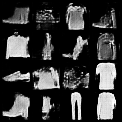
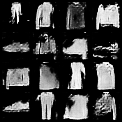
version2

diff --git a/train.py b/train.py
@@ -17,7 +17,7 @@ def main():
 
     latent_dim = 100
     batch_size = 128
-    epochs = 20
+    epochs = 30
     lr = 0.0002
 
     transform = transforms.Compose([
@@ -41,7 +41,8 @@ def main():
 
     generator = Generator(latent_dim=latent_dim).to(device)
     discriminator = Discriminator().to(device)
-
+    generator.apply(weights_init)
+    discriminator.apply(weights_init)
     criterion = nn.BCELoss()
 
     optimizer_g = optim.Adam(generator.parameters(), lr=lr, betas=(0.5, 0.999))
@@ -92,8 +93,19 @@ def main():
             fake_samples = generator(fixed_noise)
             save_generated_images(fake_samples, epoch + 1)
 
+    os.makedirs("checkpoints", exist_ok=True)
+    torch.save(generator.state_dict(), "checkpoints/generator.pth")
+    torch.save(discriminator.state_dict(), "checkpoints/discriminator.pth")
     print("Training finished.")
 
+def weights_init(m):
+    classname = m.__class__.__name__
+    if classname.find("Conv") != -1:
+        nn.init.normal_(m.weight.data, 0.0, 0.02)
+    elif classname.find("BatchNorm") != -1:
+        nn.init.normal_(m.weight.data, 1.0, 0.02)
+        nn.init.constant_(m.bias.data, 0)
 
 if __name__ == "__main__":
     main()
+
